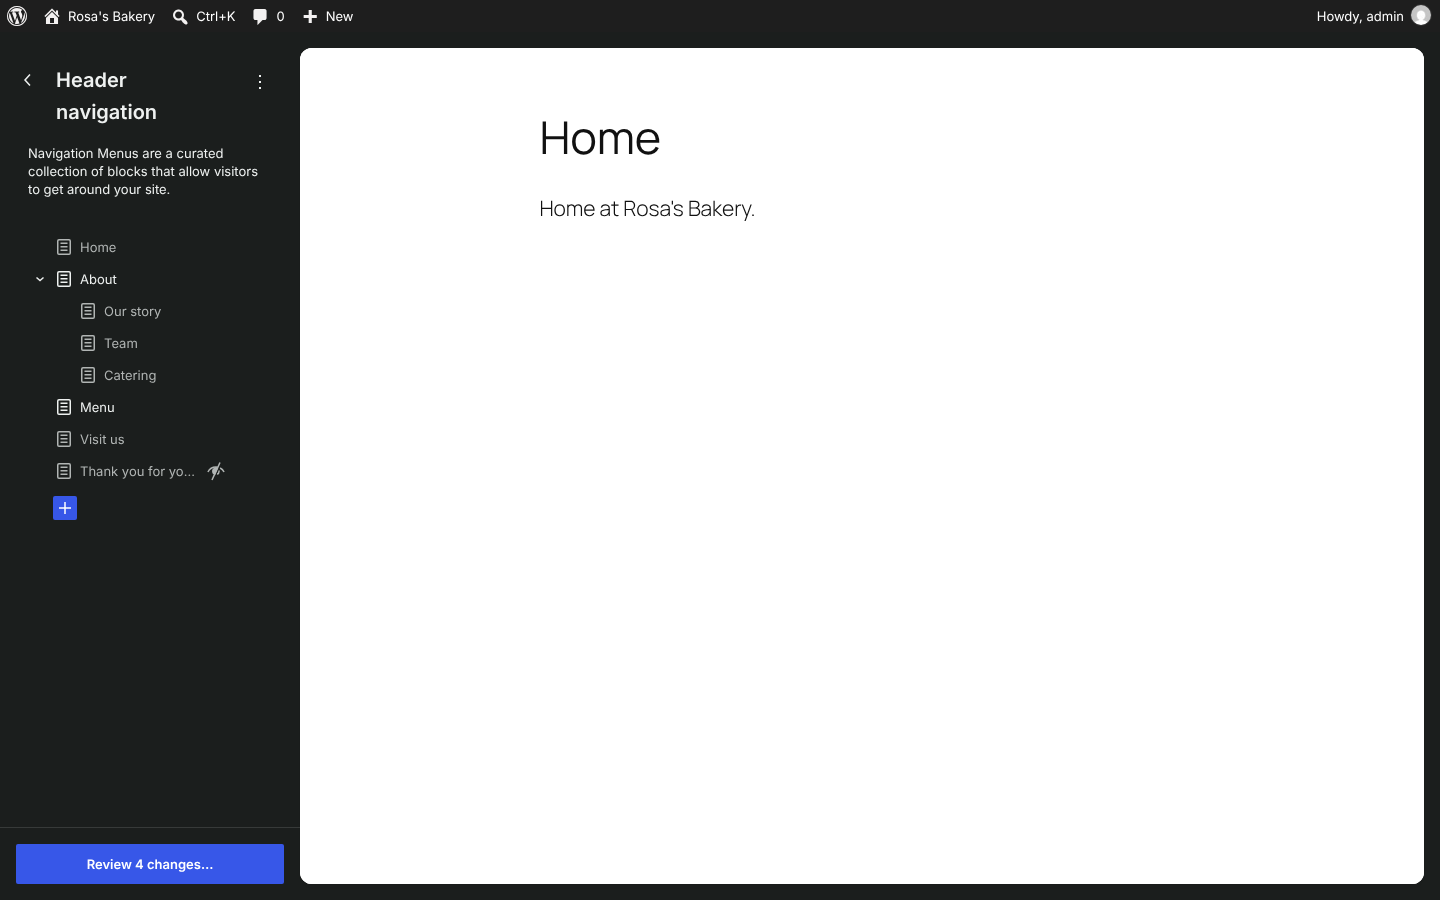
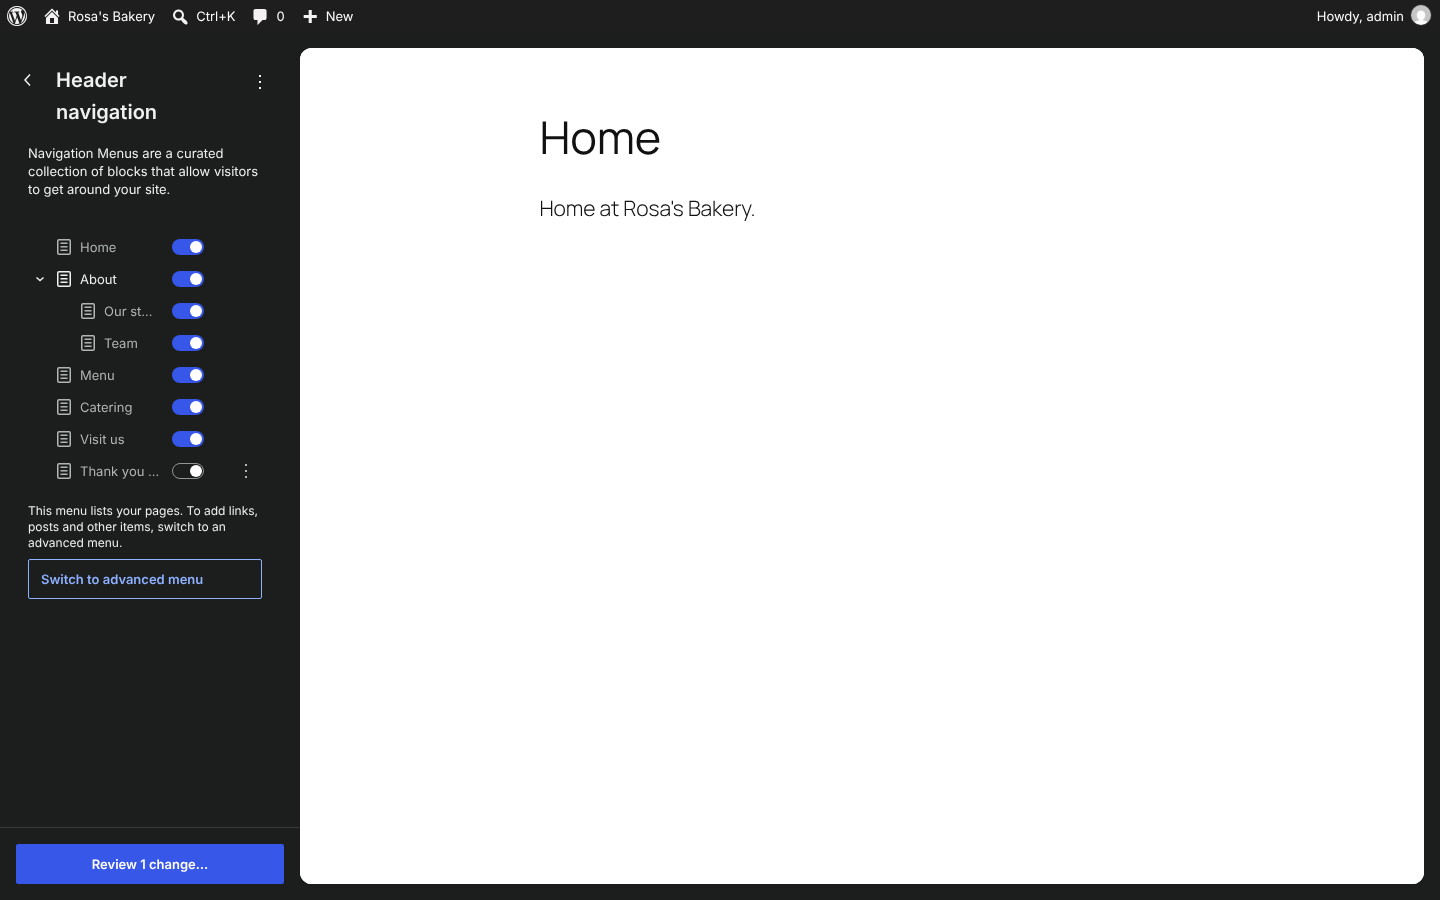
Quinn: pages menus with toggles, and advanced menus that add new pages
Claude-Session: https://claude.ai/code/session_019rCnBswqEpRtSyRyjYh3AX

Changed region(s): [[0.0312, 0.2489, 0.1562, 0.5289], [0.0, 0.5289, 0.1875, 0.6533], [0.0625, 0.9333, 0.125, 0.9644]]

diff --git a/quinn/index.html b/quinn/index.html
@@ -35,7 +35,7 @@
 
 <div class="bar">
   <strong>Quinn</strong>
-  <span class="hint">Click the header's menu: the sidebar lists every page as a menu item. Drag one to reorder, or use its ⋮ menu to hide it.</span>
+  <span class="hint">Click the header's menu: the sidebar lists every page with a toggle. Drag one to reorder, or toggle it off to hide it.</span>
   <span class="spacer"></span>
   <a href="https://github.com/Automattic/site-editing-experiments/tree/trunk/quinn#readme">About Quinn</a>
   <a href="https://github.com/WordPress/gutenberg/pull/86525">Gutenberg PR</a>

diff --git a/quinn/README.md b/quinn/README.md
@@ -2,7 +2,7 @@
 
 Quinn is a Gutenberg pull request rather than a static prototype: it lets you reorder the pages in a Page List block inside a Navigation block, and hide pages, without converting the menu to links. **[Gutenberg PR](https://github.com/WordPress/gutenberg/pull/86525)**
 
-It started as [O'Keeffe](../okeeffe/)'s prototype F, "All pages with menu switches", in the real editor. After review, the separate list of pages with switches gave way to the Navigation block's own list of items: the pages are listed, moved and hidden exactly like links, so a menu works one way whatever is in it.
+It started as [O'Keeffe](../okeeffe/)'s prototype F, "All pages with menu switches", in the real editor. After review, the pages moved into the Navigation block's own list of items, so they're moved like links. A menu of pages lists only pages, each with a show/hide toggle, and switching to an advanced menu turns them into links that can sit alongside anything else, while new pages are still added.
 
 ## Try it
 
@@ -10,47 +10,40 @@ It started as [O'Keeffe](../okeeffe/)'s prototype F, "All pages with menu switch
 
 Locally, check out the `add/page-list-reorder-and-hide-pages` branch of Gutenberg and build it. There's no experiment to turn on.
 
-The build is `gutenberg.zip` in this folder, the PR's own build at `a8e847e`, kept here because the PR's builds expire after 14 days. When the PR changes, replace it: download `gutenberg.zip` from the PR's latest **Build Gutenberg Plugin Zip** run, or check out the branch and run `npm ci` and `NO_CHECKS=true npm run build:plugin-zip`.
+The build is `gutenberg.zip` in this folder, the PR's own build at `0fb29a9`, kept here because the PR's builds expire after 14 days. When the PR changes, replace it: download `gutenberg.zip` from the PR's latest **Build Gutenberg Plugin Zip** run, or check out the branch and run `npm ci` and `NO_CHECKS=true npm run build:plugin-zip`.
 
 ## What's in it
 
-### Pages are menu items
+### A pages menu
 
-![The header's menu selected: the sidebar lists Home, About with Our story and Team under it, Menu, Catering, Visit us and Thank you for your order, with no Page List row](screenshots/navigation-sidebar.png)
+![The header's menu selected: the sidebar lists the pages, each with a show/hide toggle, Visit us switched off and gone from the header, and Switch to advanced menu below the list](screenshots/navigation-sidebar.png)
 
-Click the menu in the header. The Navigation block's sidebar lists the pages as its items, with child pages under their parent. There's no Page List row to get past: the list view leaves the Page List out and shows its pages in its place.
+Click the menu in the header. A menu whose only item is a Page List is a **pages menu**: the Navigation block's sidebar lists the pages as its items, with child pages under their parent, and no Page List row to get past.
 
-The pages work like any other item:
+- **Drag** a page to move it, with its child pages, or in and out of another page to change its level. The ⋮ menu has Move up and Move down.
+- **Toggle** a page off to take it out of the menu, and on to bring it back. Pages that are off are still published, at their usual address.
 
-- **Drag** a page to move it, with its child pages. Drag it in or out of another page to change its level, as with a submenu.
-- The **⋮ menu** has Move up, Move down, Add before, Add after, and Hide.
-- In the canvas, a page can be selected like a link.
+That's all a pages menu does: nothing else can be added to it, in the sidebar or the canvas, and its pages can't be removed. Moving a page changes the site's page order (`menu_order`), and moving it in or out of another page changes its parent, and so its address. The pages you move appear in the save panel alongside the menu, and one Undo puts a move back. People who can't edit pages can't move them.
 
-Moving a page changes the site's page order (`menu_order`), and moving it in or out of another page changes its parent, and so its address. The pages you move appear in the save panel alongside the menu, and one Undo puts a move back. People who can't edit pages can't move them.
+A page that's off is saved on the block, in a new `excludedPageIDs` attribute, and the server leaves it out with its child pages. Older WordPress ignores the attribute and shows every page. Try it with **Thank you for your order**, which no one needs in a menu.
 
-### Hiding a page
+### Switching to an advanced menu
 
-![Visit us hidden: it has the hidden icon in the sidebar and is gone from the menu in the header](screenshots/hidden.png)
+![The Switch to advanced menu dialog: the pages will become links you can edit, and new pages will still be added automatically](screenshots/advanced-dialog.png)
 
-**Hide** in a page's ⋮ menu is the same Hide that links now have: the item gets the hidden icon and leaves the menu. **Show** brings it back. A hidden page is saved on the block, in a new `excludedPageIDs` attribute, and the server leaves it out with its child pages. Removing a page, with Delete, hides it instead, as a Page List lists every page. Older WordPress ignores the attribute and shows every page.
+To add links, posts or anything else, choose **Switch to advanced menu** below the pages. After a confirmation, the pages become ordinary links, in the order shown and at their levels, with pages that were off kept as hidden links. The menu can then hold anything, and its links are edited, hidden and removed like any links.
 
-Try it with **Thank you for your order**, which no one needs in a menu.
+![After switching: the sidebar lists the links, Visit us with the hidden icon, an add button, and Add new pages automatically switched on](screenshots/advanced-menu.png)
 
-### Links and pages together
+An advanced menu still gets new pages. Switching turns on its new **Add new pages automatically** setting: when a page is published, a link to it is added at the end of the menu, or at the end of its parent page's submenu if the parent page is in the menu. The setting is saved on the menu (`auto_add_pages`), and can be turned off below the list.
 
-A Page List can only hold pages. So putting a link between two pages, by dragging it there or with Add before or Add after on a page, asks to detach the Page List first. Dragging a page out among the menu's other links asks the same. The dialog says what you did and what follows: the pages become ordinary links, and new pages won't be added automatically. **Cancel** puts things back as they were. **Detach** turns the pages into links in the order shown, keeping hidden pages as hidden links.
-
-![Dragging the shop link between Home and Catering: the Detach Page List dialog explains that only pages can go between the pages of a Page List](screenshots/detach-dialog.png)
-
-![After Detach: the menu is links, with Visit us and the shop link before the former pages](screenshots/detached.png)
-
-A link dropped before or after all the pages doesn't need that: it goes next to the Page List. A page dropped right next to the Page List goes back in, as its first or last page.
+Menus that already have a Page List and other links keep working as before: their pages are moved and toggled the same way, and putting a link between pages, or a page among the links, asks to detach first.
 
 ### On the Navigation screen
 
-The site editor's **Navigation** screen, at Appearance > Editor > Navigation, lists the pages the same way, with the same dragging and Hide. So does the extensible site editor's Navigation screen.
+The site editor's **Navigation** screen, at Appearance > Editor > Navigation, lists a pages menu the same way, with the same toggles and Switch to advanced menu. So does the extensible site editor's Navigation screen.
 
-![The site editor's Navigation screen: the dark sidebar lists Header navigation's pages, with Catering moved under About, Thank you for your order hidden, and a Review 4 changes button](screenshots/navigation-screen.png)
+![The site editor's Navigation screen: the dark sidebar lists Header navigation's pages with toggles, Thank you for your order switched off, and Switch to advanced menu](screenshots/navigation-screen.png)
 
 ### Pages only through the Page List
 
@@ -58,10 +51,10 @@ While a Navigation block has a Page List, the Page List is the only way to add a
 
 ## Open questions
 
-- **Site-wide order.** Reordering here changes the order of every Page List and of the Pages screen. Someone moving Catering up in the header may not expect the footer's page list to change too. An order saved on the block would affect only this menu, at the cost of new pages needing a place in it.
-- **Hidden parents.** Hiding a parent hides its child pages, which the list view shows as they were. F promoted the child pages to the top level instead.
+- **Site-wide order.** Reordering here changes the order of every Page List and of the Pages screen. Someone moving Catering up in the header may not expect the footer's page list to change too.
+- **Toggles, then the eye.** In a pages menu a page is switched off with a toggle. After switching to an advanced menu, it's a link hidden with the eye icon and Hide, like any link. Should advanced menus get toggles too?
+- **Hidden parents.** Switching a parent off hides its child pages too, though their toggles stay on.
 - **Changing a page's address.** Moving a page in or out of another page changes its address, and nothing warns about that.
-- **Links between pages.** Putting one link between two pages still detaches the whole menu. The dialog now asks first, but the alternative is a Page List that can hold links of its own.
-- **Reaching the Page List.** With its row gone from the list view, its Parent page setting and Detach button are reached from a page's sidebar, with Select Page List. Is that findable enough?
-- **The canvas's + button.** The menu's + in the canvas adds a Page Link, labelled "Select page", which here can't link to a page. In a menu with a Page List it should probably add a custom link.
+- **Auto-added pages.** New pages are added when they're first published, at the end of the menu. Is the end the right place? And a page whose parent page isn't in the menu isn't added at all.
+- **Reaching the Page List.** With its row gone, its Parent page setting and Detach are reached from a page's sidebar, with Select Page List.
 - **Many pages.** The list shows every page, up to the 100 that Page List loads in the editor.

diff --git a/README.md b/README.md
@@ -19,5 +19,5 @@ Prototypes exploring site editing interactions. Each experiment lives in its own
 - [Nevelson](nevelson/), block settings beside the block, a WordPress plugin: Judd's popovers in the real editor. By the block, the toolbar keeps only the movers, the block's name, formatting and a pencil; the pencil opens a floating card beside the block, headed with its name, with the toolbar's other tools along its top and the editor's own block inspector below, which follows it as you scroll; drag it somewhere else if you'd rather. Patterns and template parts aren't locked: a click in one goes straight to that block, with all its settings. There's no sidebar: the page's settings are a Page tab in the Document overview. On a narrow screen the panel is a sheet along the bottom. [Try it in Playground](https://playground.wordpress.net/?blueprint-url=https://raw.githubusercontent.com/Automattic/site-editing-experiments/trunk/nevelson/blueprint.json).
 - [O'Keeffe](okeeffe/), pages and menus, six prototypes for user testing: the Pages screen beside a live preview of the site, so adding a page to the header or footer menu shows straight away. The main one lists every page with a marker saying whether it's in the menu; click it for what that means for visitors and the one action that changes it. Others test the automatic Page List menu most block-theme sites start with (taking a page out switches it to one you choose, after one confirm), a header and footer menu, and three comparisons: "In your menu" and "Other pages" sections, menu settings inside each page, and every page with an "In menu" switch. The README has the test script.
 - [Pollock](pollock/), drag handles, three prototypes for user testing: the block editor already uses the six-dot handle, but as a narrow button with tiny dots, pressed against the move arrows in the toolbar. The same page with only the handle changed: today's handle, a grip on the block's left edge shown on hover, and today's handle made full-size and legible. A facilitator panel (`?notes`) ticks off the tasks and logs how every block was moved, including tries at dragging things that aren't handles. Round 2 is a longer page with long moves, a Finished button that gives a completion code for the testing tool, pictures that drag by themselves as in the editor, and more takes on the handle: the edge grip without move arrows or labelled, and a four-arrow move icon in place of the six dots. Round 2's test is five prototypes on a page with columns and a full-width cover: today's handle, the edge grip, and a bigger toolbar handle with dots, a move icon, or a tooltip that appears straight away. The README has the test script, round 1's results and what would decide round 2. Round 3 tests, against today's handle: the handle and arrows sticking out of the toolbar to the block's left, arrows you can drag, dragging a selected block by its outline, and (as Squarespace does) blocks you can drag from anywhere until you click into them to type. Round 4 tests drag-from-anywhere and the toolbar wing against today's editor with 20 people each, starting with a picture that drags by itself and including text edits.
-- [Quinn](quinn/), reorder and hide pages in a Page List menu, a Gutenberg pull request: select a Navigation block with a Page List and its sidebar lists the pages as menu items, with no Page List row. Drag them, nest them and hide them like links, without converting the Page List to links. Dragging changes the site's page order, which the menu follows. Putting a link between pages, or a page among links, asks to detach first. While the menu has a Page List, it's the only way to add a page to it. [Gutenberg PR](https://github.com/WordPress/gutenberg/pull/86525). [Try it in Playground](https://playground.wordpress.net/?blueprint-url=https://raw.githubusercontent.com/Automattic/site-editing-experiments/trunk/quinn/blueprint.json).
+- [Quinn](quinn/), reorder and hide pages in a Page List menu, a Gutenberg pull request: a menu of pages lists only its pages, as the Navigation block's items, with a show/hide toggle each and no Page List row. Drag them to reorder or nest them, without converting the Page List to links. To add anything else, Switch to advanced menu turns the pages into links, and new pages are still added to the menu automatically. [Gutenberg PR](https://github.com/WordPress/gutenberg/pull/86525). [Try it in Playground](https://playground.wordpress.net/?blueprint-url=https://raw.githubusercontent.com/Automattic/site-editing-experiments/trunk/quinn/blueprint.json).
 - [Riley](riley/), this page or every page, nine prototypes for user testing in two rounds: a site's header and footer are shared by every page, but nothing in the editor says so. The same three-page site in the same simple editor, with only the header and footer treated differently: a control with only the purple outline the WordPress editor gives shared parts, outlined and labelled "Shown on every page" on hover with one click to unlock, always labelled Site header and Site footer beside a label with the page's name, the control plus a message after each change saying "Updated on all 3 pages" with Undo, or the control plus a summary at Save of what changed on every page and what changed on one. A facilitator panel (`?notes`) lists the tasks and logs every edit, which part it was in, and whether the person looked at another page afterwards, and a Finished button gives a completion code for the testing tool. Round 2 adds four more, each one change from a control with the editor's own save panel: a button named "Edit site header", an "On every page" label with a globe icon on the purple outline, and a save panel that says where changes will show. The README has the test script.
